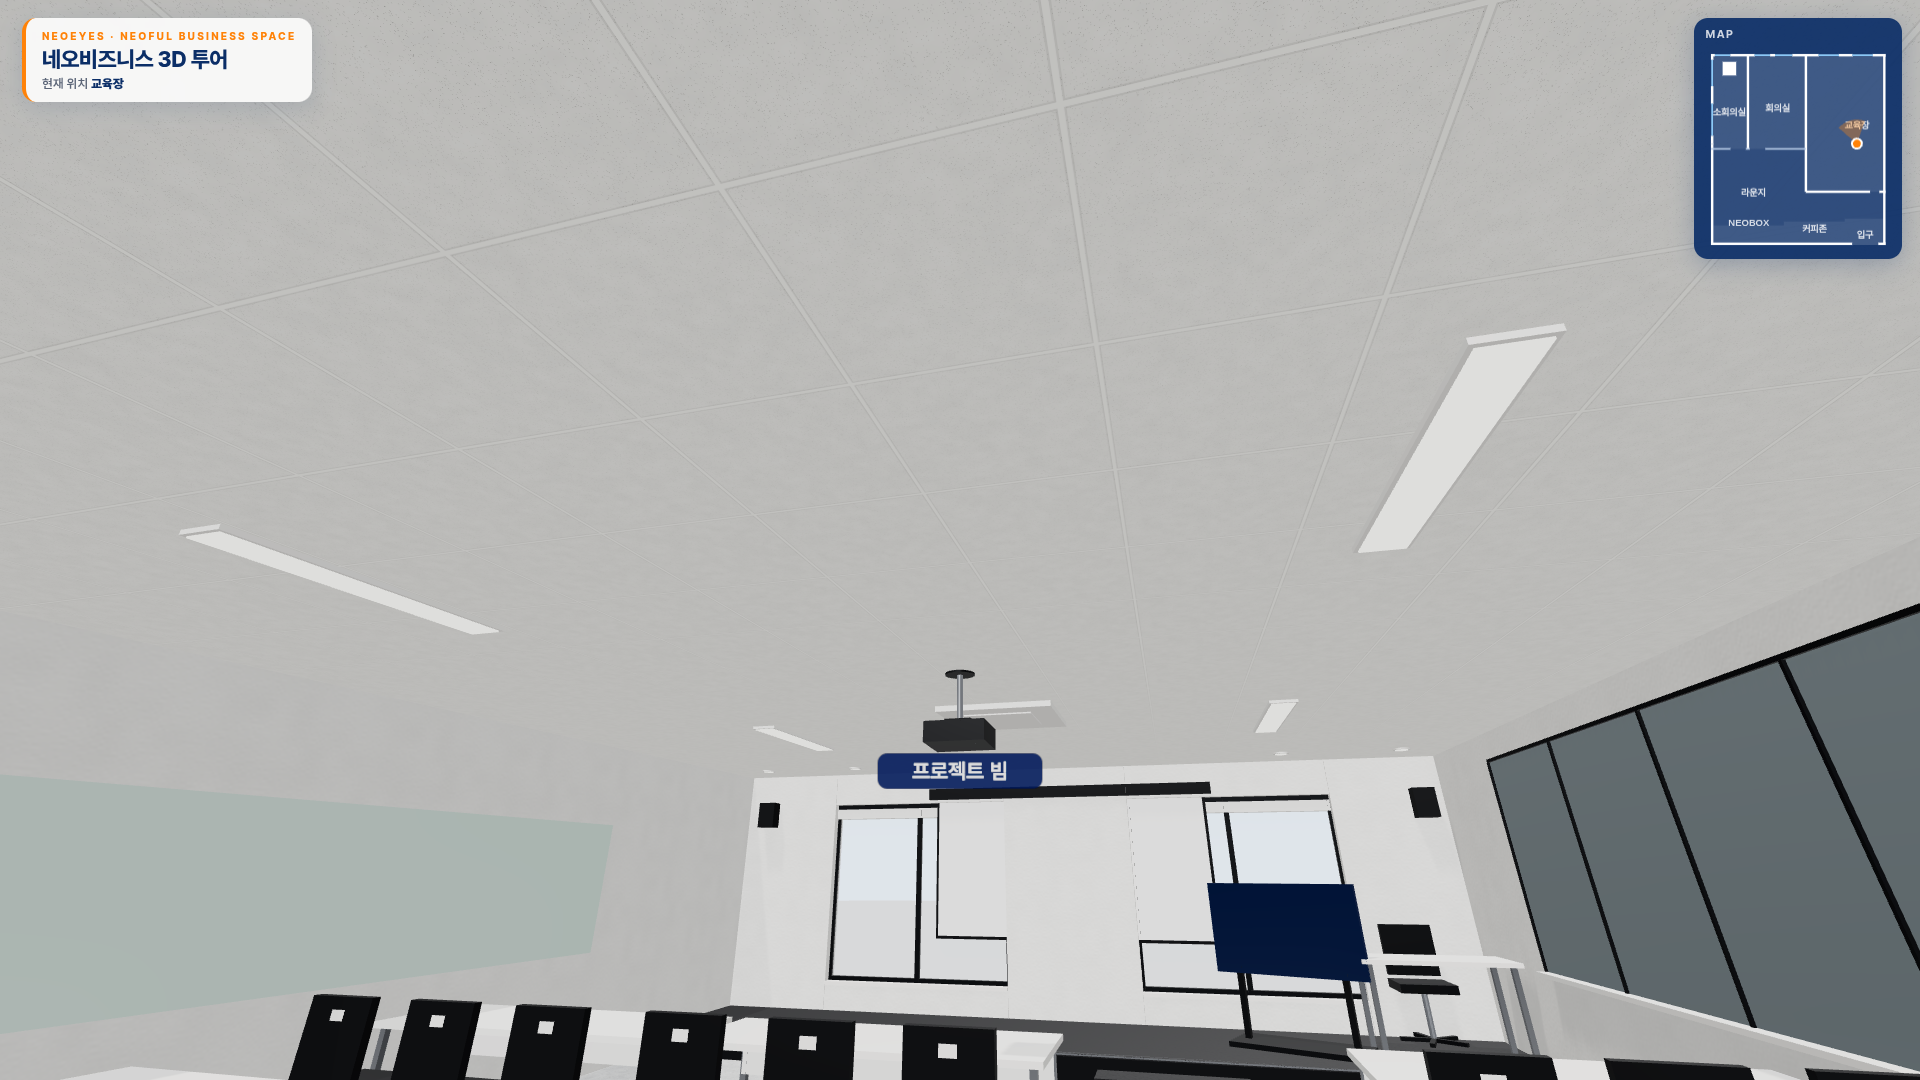
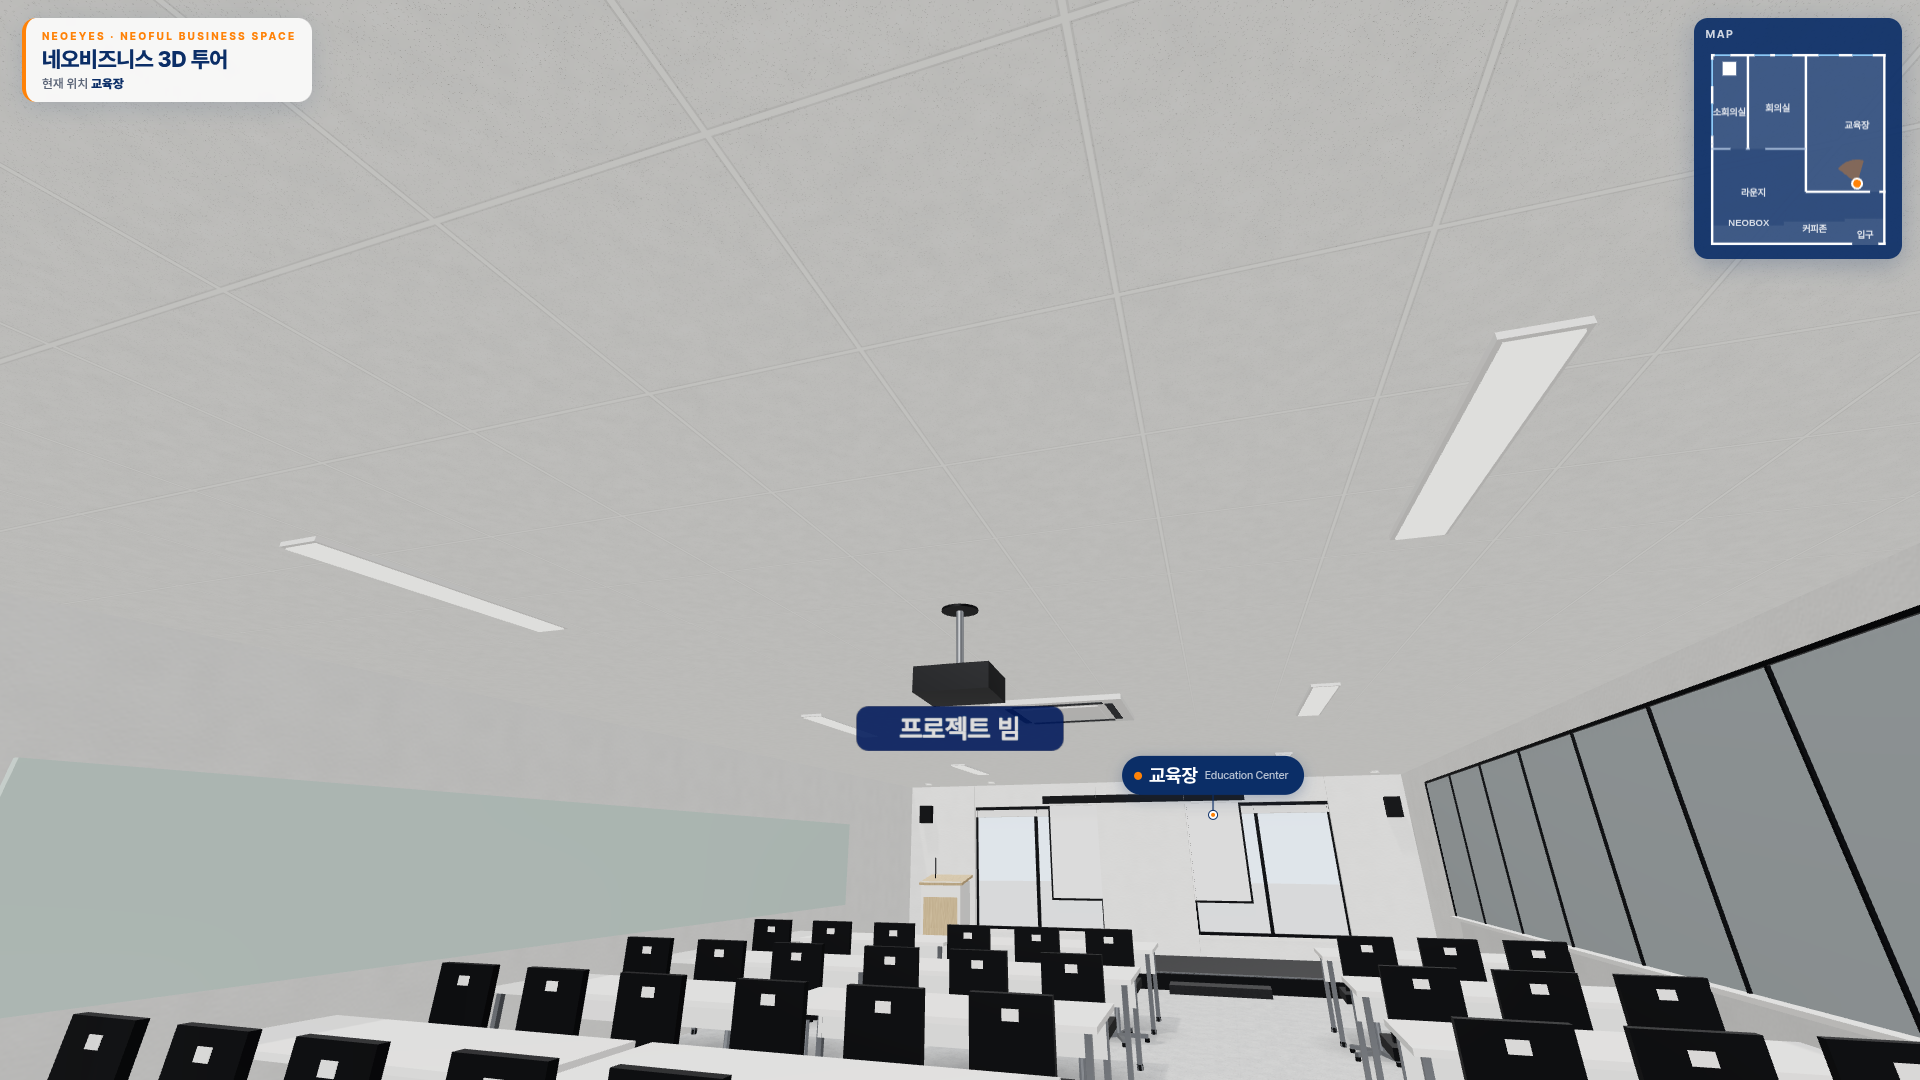
교육장: 에어컨 1대(14.0,7.2), 프로젝터(14.0,10.0), 스크린 앞 책상·의자 제거, 왼쪽 발표 강연대

diff --git a/app.js b/app.js
@@ -5,7 +5,7 @@ import { OrbitControls } from 'three/addons/OrbitControls.js';
 import { CSS2DRenderer, CSS2DObject } from 'three/addons/CSS2DRenderer.js';
 import { RoomEnvironment } from 'three/addons/RoomEnvironment.js';
 import { mergeGeometries } from 'three/addons/BufferGeometryUtils.js';
-import { makeTextures, textTexture } from './textures.js?v=11181990';
+import { makeTextures, textTexture } from './textures.js?v=11190910';
 
 const L = window.LAYOUT, B = L.building, H = B.ceiling, EYE = B.eye || 1.6, W = B.width, D = B.depth;
 const TW = Object.assign({ exterior: 0.24, interior: 0.14, thick: 0.3 }, B.wall || {});
@@ -304,7 +304,11 @@ for (const p of (L.ceiling?.projectors || [])) {      // 천장형 빔 프로젝
     sp.scale.set(th * 320 / 40, th * 72 / 40, 1);   /* 글자 높이 ≈ th(m) */ sp.position.set(p.x, by - 0.14, p.z); sp.renderOrder = 5; scene.add(sp); projLabels.push(sp);
   }
 }
-for (const [x, z] of (L.ceiling?.aircon || [])) { box(0.84, 0.04, 0.84, M.fixture, x, H - 0.045, z); box(0.5, 0.012, 0.5, M.fixture, x, H - 0.055, z); }
+if (!M.acVent) { M.acVent = std({ color: 0x3a3d42, roughness: 0.6 }); M.acVent.userData.noShadow = true; }
+for (const [x, z, sz = 0.84] of (L.ceiling?.aircon || [])) {   // [x, z, 크기(선택, 기본 0.84m)]
+  box(sz, 0.04, sz, M.fixture, x, H - 0.045, z); box(sz * 0.6, 0.012, sz * 0.6, M.fixture, x, H - 0.055, z);
+  for (const s of [-1, 1]) { box(sz * 0.7, 0.006, 0.06, M.acVent, x, H - 0.05, z + s * sz * 0.39); box(0.06, 0.006, sz * 0.7, M.acVent, x + s * sz * 0.39, H - 0.05, z); }   // 토출구 4면
+}
 
 /* ---------------- furniture builders ---------------- */
 // ※ 가구 모양·치수는 v1 그대로 유지(사용자 요청). 재질만 실제 느낌으로 교체.
@@ -417,6 +421,14 @@ function tableSet(g, o) {   // 테이블(세로 d 방향으로 길게) + 양옆 
   const place = (cnt, side) => { for (let i = 0; i < cnt; i++) { const z = cnt === 1 ? 0 : -d / 2 + inset + i * (d - 2 * inset) / (cnt - 1); chair(grp(side * (w / 2 + 0.275), z, side * 90, g), {}); } };
   place(o.chairsLeft || 0, -1); place(o.chairsRight || 0, 1);
 }
+function podium(g, o) {   // 발표용 스탠딩 강연대 (앞 = 로컬 -z → rot:180 이면 청중(남쪽)을 향함)
+  const w = o.w || 0.62, d = o.d || 0.48, h = o.h || 1.08, m = matOf(o.color || 'white'), acc = matOf(o.accent || 'oak');
+  box(w, h - 0.06, d, m, 0, 0, 0, g);                                           // 몸체
+  box(w + 0.04, 0.03, d + 0.04, m, 0, 0, 0, g);                                 // 받침
+  box(w * 0.86, h * 0.55, 0.012, acc, 0, h * 0.2, -d / 2 - 0.006, g);           // 앞면 포인트 패널
+  const top = box(w + 0.06, 0.035, d + 0.08, acc, 0, h - 0.06, 0.02, g); top.rotation.x = -0.18;   // 기울어진 상판
+  cyl(0.008, 0.008, 0.3, M.black, w * 0.3, h - 0.03, 0.05, 8, g);              // 구즈넥 마이크
+}
 function whiteboard(g, o) {
   if (o.style === 'mirror') {   // 대형 유리/거울 패널 + 하부 선반(교육장 동쪽 벽, 사진 IMG_0382)
     const w = o.w || 2, n = Math.max(1, Math.round(w / 1.2)), y0 = o.y0 ?? 0.9, y1 = o.y1 ?? 2.45;
@@ -504,7 +516,7 @@ function slats(o) {   // from → to 선을 따라 세로 우드 루버
   if (o.thick) box(horiz ? Math.abs(bx - ax) + 0.1 : 0.08, 0.04, horiz ? 0.08 : Math.abs(bz - az) + 0.1, M.oak, (ax + bx) / 2, h, (az + bz) / 2, g);
   g.userData.noBlob = true; return g;
 }
-const BUILDERS = { stage, block, chair, stool, armchair, cube, roundTable, plant, desk, deskPair, tableSet, whiteboard, screen, tvStand, tvWall, signStand, bench, cabinet, barCounter, purifier, mat, booth, pantry };
+const BUILDERS = { stage, podium, block, chair, stool, armchair, cube, roundTable, plant, desk, deskPair, tableSet, whiteboard, screen, tvStand, tvWall, signStand, bench, cabinet, barCounter, purifier, mat, booth, pantry };
 const NOBLOB = new Set(['stage', 'whiteboard', 'screen', 'tvWall', 'mat', 'slats', 'booth']);
 const blobs = [];
 function place(o) {

diff --git a/layout.js b/layout.js
@@ -129,7 +129,7 @@ window.LAYOUT = {
      strips : 일자형 LED 라인 조명 { x, z, len(길이), w(폭), rot(회전°, 0 = 남북 방향) }
      projectors : 천장 빔 프로젝터 { x, z, aim:[x,z](렌즈가 향하는 곳), drop(천장에서 내려온 길이), label(글씨, false 면 숨김) }
      downlights : 작은 원형 다운라이트 [x, z]
-     aircon : 천장형 에어컨 위치 [x, z]                                             */
+     aircon : 천장형 에어컨 위치 [x, z] 또는 [x, z, 크기(m)]                           */
   ceiling: {
     panels: [
       { rect:[0, 2.4, 3.81, 9.74],   nx:1, nz:3 },
@@ -144,10 +144,10 @@ window.LAYOUT = {
       { x:11.9, z:11.0, len:1.2 }, { x:15.9, z:11.0, len:1.2 }
     ],
     projectors: [
-      { x:13.91, z:4.9, aim:[13.91, 0.18], drop:0.3, color:'black', label:'프로젝트 빔' }   // 앞에서 약 1/3 지점, 스크린 정면을 향함 (사진: 검은 본체)
+      { x:14.0, z:10.0, aim:[13.91, 0.18], drop:0.3, color:'black', label:'프로젝트 빔' }   // 사용자 스케치(11/19): 에어컨 뒤쪽, 스크린 정면을 향함
     ],
     downlights: [[10.5, 0.9], [11.6, 0.9], [16.2, 0.9], [17.3, 0.9]],   // 앞쪽 작은 원형 다운라이트
-    aircon: [[6.9,4.8],[13.91,3.6],[13.91,10.3],[4.5,13.0]]
+    aircon: [[6.9,4.8],[14.0,7.2,1.0],[4.5,13.0]]   // [x, z, 크기] — 교육장은 가운데 1대(사용자 스케치 11/19, 약 1.0m)
   },
 
   /* ---------- 5. 가구 ----------
@@ -182,11 +182,10 @@ window.LAYOUT = {
     { type:'cabinet', x:8.4, z:0.47, w:1.6, d:0.4, h:0.6, color:'white' },
 
     /* --- 교육장 --- */
-    { type:'stage', x:13.85, z:0.97, w:7.82, d:1.5, h:0.2, top:'darkTop', stepX:1.0 },   // 단상 x9.94–17.76(벽 안쪽 면 사이), z0.2–1.7, 높이 0.2 (실측 스케치 빨간색)
+    { type:'stage', x:13.85, z:1.12, w:7.82, d:1.8, h:0.2, top:'darkTop', stepX:1.0 },   // 단상 x9.94–17.76(벽 안쪽 면 사이), z0.22–2.02(강연대 들어가게 살짝 깊게), 높이 0.2 (실측 스케치 빨간색)
     { type:'screen', x:13.91, z:0.18, w:3.0, rot:180 },
-    { type:'tvStand', x:15.95, z:1.05, rot:-22, elev:0.2 },          // 강의용 모니터(스크린 오른쪽, 사진 기준)
-    { type:'desk', x:17.1, z:1.05, w:1.2, d:0.6, elev:0.2 },          // 강연대(단상 위 오른쪽, elev = 단상 높이)
-    { type:'chair', x:17.1, z:0.6, rot:180, elev:0.2 },
+    // 스크린 앞에는 책상·의자 없음 (사용자 11/19)
+    { type:'podium', x:11.0, z:1.45, w:0.62, d:0.48, rot:180, elev:0.2 },   // 발표용 강연대 — 단상 왼쪽(x10.4–11.6, z1.0–1.9), 청중을 향함
     { type:'block', x:10.25, z:0.33, w:0.2, d:0.15, h:0.28, y:2.1, color:'black' },   // 벽 스피커(앞벽 왼쪽 위)
     { type:'block', x:17.55, z:0.33, w:0.2, d:0.15, h:0.28, y:2.1, color:'black' },    // 벽 스피커(앞벽 오른쪽 위)
     { type:'whiteboard', x:9.97, z:7.07, w:8.5, rot:-90 },

diff --git a/index.html b/index.html
@@ -123,8 +123,8 @@ body.shot #doorPrompt{font-size:22px;padding:12px 22px 12px 14px}body.shot #door
   </div>
 </aside>
 <!-- 공간 설정: 치수·가구 배치는 layout.js 에서 수정 -->
-<script src="layout.js?v=11181990"></script>
+<script src="layout.js?v=11190910"></script>
 <script type="importmap">{"imports":{"three":"./lib/three.module.min.js","three/addons/":"./lib/addons/"}}</script>
-<script type="module" src="app.js?v=11181990"></script>
+<script type="module" src="app.js?v=11190910"></script>
 </body>
 </html>

diff --git a/수정방법.md b/수정방법.md
@@ -180,6 +180,7 @@ openings:[
 | `booth` | NEOBOX 1인 부스 | w, d, label, rot(문 방향), open, swing |
 | `pantry` | 탕비 카운터 세트 | w, rot(앞면 방향) |
 | `stage` | 단상(걸어 올라갈 수 있음, 앞 계단 1칸) | w, d, h, top, stepX(계단 위치), step:false |
+| `podium` | 발표용 스탠딩 강연대(rot:180 = 청중 방향) | w, d, h, color, accent, elev |
 | `plant` | 화분 | scale |
 | `purifier` | 공기청정기 | |
 | `mat` | 바닥 매트(통과 가능) | w, d, color |
@@ -234,7 +235,7 @@ ceiling: { panels:[ { rect:[x1,z1,x2,z2], nx:2, nz:3 } ],  aircon:[[x,z], ...] }
   - `label` 글씨는 프로젝터 아래에 작게 떠 있어요. `label:false` 로 숨길 수 있어요.
 - `downlights` : 작은 원형 다운라이트 `[x, z]`
 - `projectors` 에 `color:'black'` 을 넣으면 검은 본체
-- `aircon` : 천장형 에어컨 위치 `[x, z]`
+- `aircon` : 천장형 에어컨 위치 `[x, z]` 또는 `[x, z, 크기]` (예: `[14.0, 7.2, 1.0]`)
 
 ## 창문 · 유리벽 스타일 (layout.js → walls)
 - 창문 `style:'tall'` : 바닥~천장 통창, 밝은 회색 알루미늄 프레임 (소회의실)
